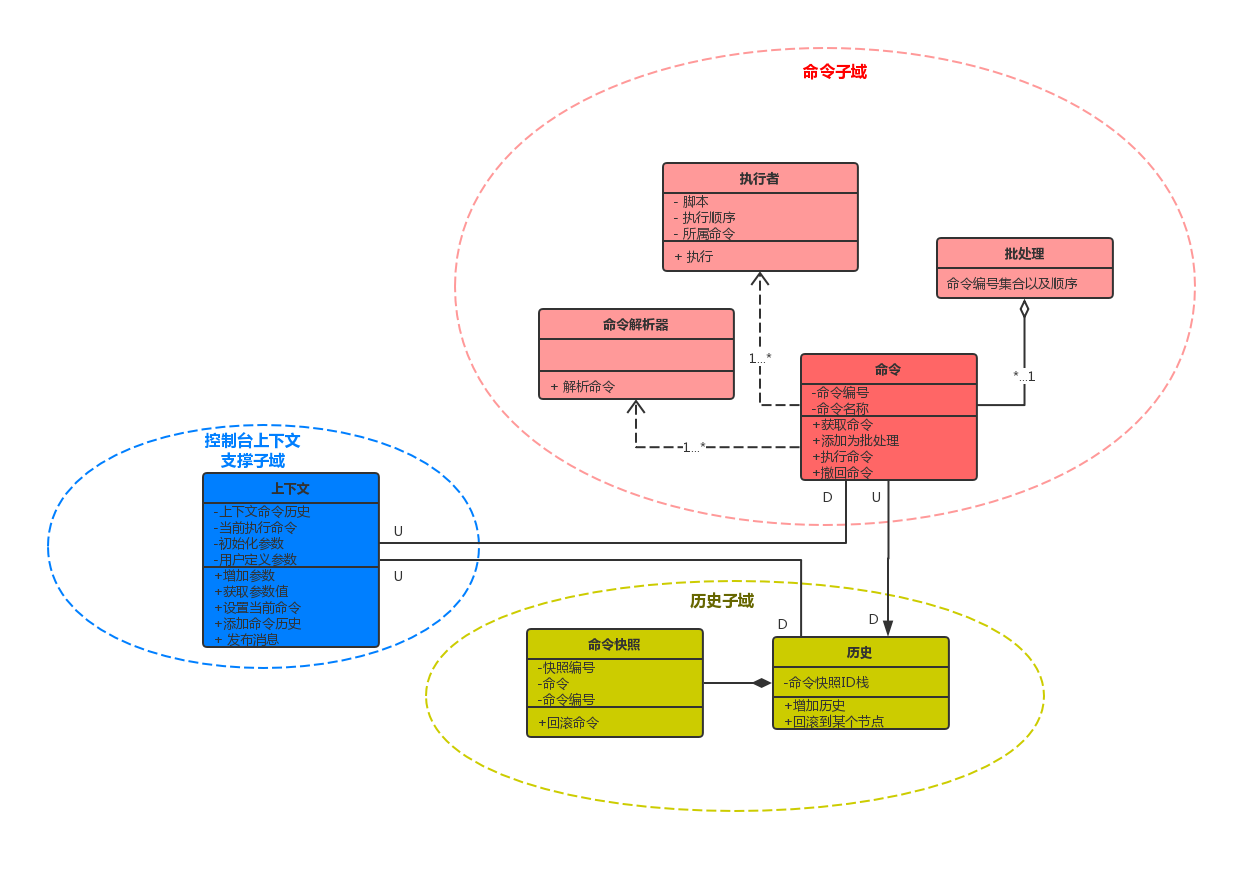
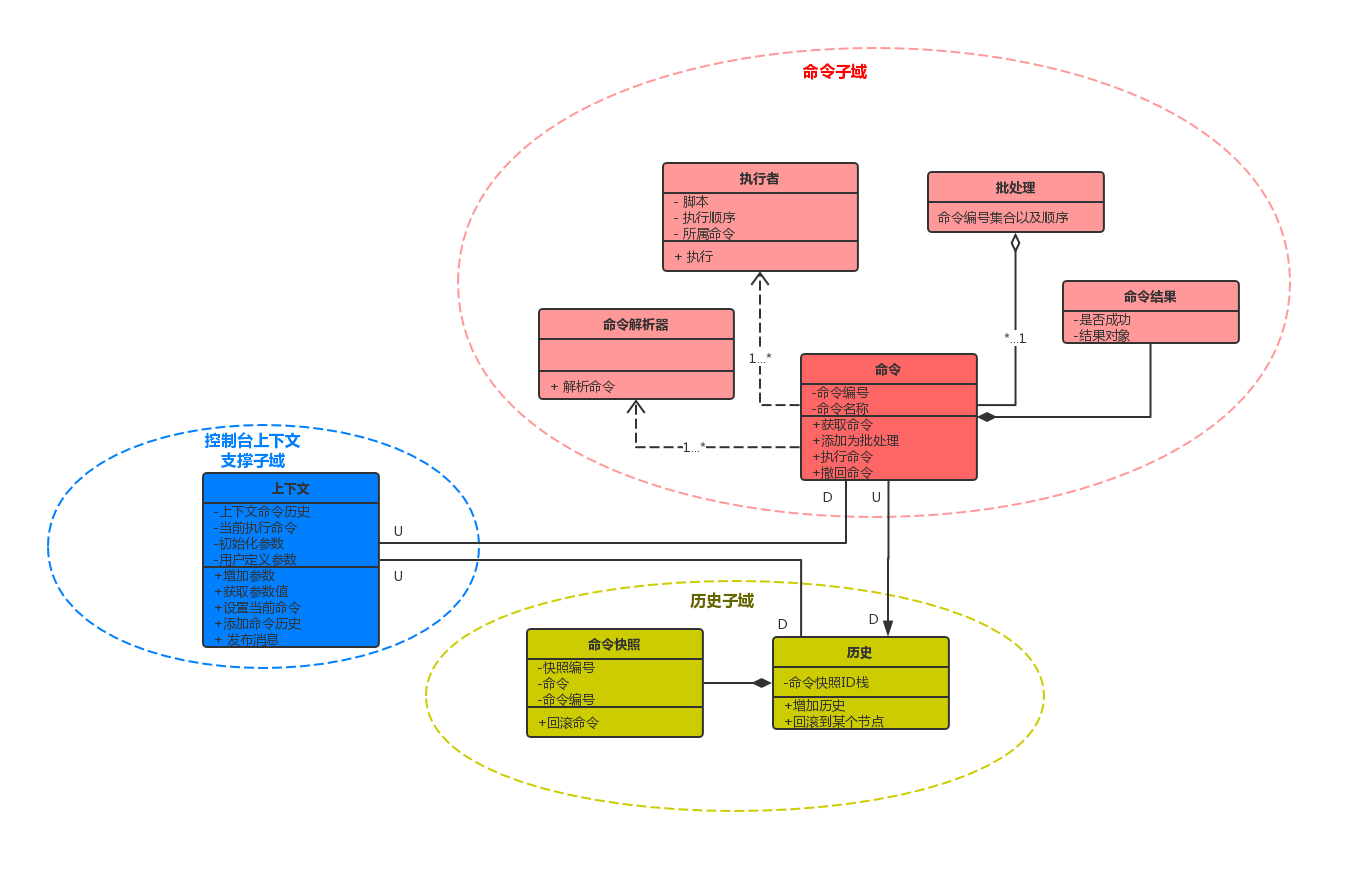
Add CommandResult value object

diff --git a/jmore-console/src/main/java/com/whatakitty/jmore/console/application/service/CommandService.java b/jmore-console/src/main/java/com/whatakitty/jmore/console/application/service/CommandService.java
@@ -1,14 +1,12 @@
 package com.whatakitty.jmore.console.application.service;
 
-import com.whatakitty.jmore.console.domain.command.BatchCommand;
-import com.whatakitty.jmore.console.domain.command.Command;
-import com.whatakitty.jmore.console.domain.command.CommandRepository;
-import com.whatakitty.jmore.console.domain.command.ICommand;
+import com.whatakitty.jmore.console.domain.command.*;
 import com.whatakitty.jmore.console.domain.context.ConsoleContext;
 import com.whatakitty.jmore.console.domain.history.History;
 import com.whatakitty.jmore.console.domain.history.HistoryRepository;
 import com.whatakitty.jmore.framework.ddd.publishedlanguage.AggregateId;
 import java.util.List;
+import java.util.Optional;
 import java.util.stream.Collectors;
 import lombok.RequiredArgsConstructor;
 import org.springframework.stereotype.Service;
@@ -35,7 +33,7 @@ public class CommandService {
      * @param context console context
      * @param cmd     command
      */
-    public void execute(ConsoleContext context, String cmd) {
+    public Optional<CommandResult> execute(ConsoleContext context, String cmd) {
         // get or create history
         context.bindHistory(() -> {
             History newOne = new History(context);
@@ -45,10 +43,10 @@ public class CommandService {
 
         // execute command
         try {
-            commandRepository.findById(new AggregateId<>(cmd))
-                .ifPresent(command -> {
+            return commandRepository.findById(new AggregateId<>(cmd))
+                .map(command -> {
                     context.setCurrentCommand(command);
-                    command.execute(context);
+                    return command.execute(context);
                 });
         } finally {
             context.removeCommand();

diff --git a/jmore-console-demo/src/main/java/com/whatakitty/jmore/console/demo/Application.java b/jmore-console-demo/src/main/java/com/whatakitty/jmore/console/demo/Application.java
@@ -2,9 +2,11 @@ package com.whatakitty.jmore.console.demo;
 
 import com.whatakitty.jmore.console.JMoreConsoleRunner;
 import com.whatakitty.jmore.console.application.service.CommandService;
+import com.whatakitty.jmore.console.domain.command.CommandResult;
 import com.whatakitty.jmore.console.domain.context.ConsoleContext;
 import com.whatakitty.jmore.console.infrastructure.stream.StreamMgr;
 import com.whatakitty.jmore.framework.bootstrap.JMoreApplication;
+import java.util.Optional;
 import javax.annotation.PreDestroy;
 import lombok.RequiredArgsConstructor;
 import lombok.extern.slf4j.Slf4j;
@@ -26,13 +28,15 @@ public class Application implements JMoreConsoleRunner {
 
     @Override
     public void run(ConsoleContext context) {
-        while (true) {
-            final String command = StreamMgr.getINSTANCE().reader().nextLine();
-            try {
-                commandService.execute(context, command);
-            } catch (UnsupportedOperationException e) {
-                log.error(e.getMessage());
+        final String command = StreamMgr.getINSTANCE().reader().nextLine();
+        try {
+            Optional<CommandResult> result = commandService.execute(context, command);
+            if (!result.isPresent() || !result.get().isSucc()) {
+                StreamMgr.getINSTANCE().println("Command execute failed");
             }
+            run(context);
+        } catch (UnsupportedOperationException e) {
+            log.error(e.getMessage());
         }
     }
 

diff --git a/jmore-console/src/main/java/com/whatakitty/jmore/console/domain/command/Command.java b/jmore-console/src/main/java/com/whatakitty/jmore/console/domain/command/Command.java
@@ -35,14 +35,16 @@ public abstract class Command extends AbstractAggregateRoot<String> implements I
     private final IReceiver receiver;
 
     @Override
-    public void execute(ConsoleContext context) {
+    public CommandResult execute(ConsoleContext context) {
         publishEvent(new CommandBeforeExecuteEvent(context));
         try {
             // invoke
             final Object result = execute(context, receiver);
             publishEvent(new CommandAfterExecuteEvent(context, result));
+            return CommandResult.of(true, result);
         } catch (Throwable e) {
             publishEvent(new CommandExecuteFailedEvent(context, e));
+            return CommandResult.of(false, null);
         } finally {
             publishEvent(new CommandFinishedEvent(context));
         }

diff --git a/jmore-console/src/main/java/com/whatakitty/jmore/console/domain/command/BatchCommand.java b/jmore-console/src/main/java/com/whatakitty/jmore/console/domain/command/BatchCommand.java
@@ -54,8 +54,11 @@ public class BatchCommand extends AbstractEntity implements ICommand {
     }
 
     @Override
-    public void execute(ConsoleContext context) {
-        commands.forEach(item -> item.execute(context));
+    public CommandResult execute(ConsoleContext context) {
+        List<CommandResult> results = commands.stream()
+            .map(item -> item.execute(context))
+            .collect(Collectors.toList());
+        return CommandResult.of(results.parallelStream().allMatch(CommandResult::isSucc), results);
     }
 
     @Override

diff --git a/jmore-console/src/main/java/com/whatakitty/jmore/console/domain/command/CommandResult.java b/jmore-console/src/main/java/com/whatakitty/jmore/console/domain/command/CommandResult.java
@@ -1,0 +1,21 @@
+package com.whatakitty.jmore.console.domain.command;
+
+import com.whatakitty.jmore.framework.ddd.domain.ValueObject;
+import lombok.EqualsAndHashCode;
+import lombok.Value;
+
+/**
+ * command result
+ *
+ * @author WhatAKitty
+ * @date 2019/05/05
+ * @description
+ **/
+@Value(staticConstructor = "of")
+@EqualsAndHashCode(callSuper = true)
+public final class CommandResult extends ValueObject {
+
+    private final boolean succ;
+    private final Object result;
+
+}

diff --git a/jmore-console/src/main/java/com/whatakitty/jmore/console/domain/command/ICommand.java b/jmore-console/src/main/java/com/whatakitty/jmore/console/domain/command/ICommand.java
@@ -22,7 +22,7 @@ public interface ICommand extends Ordered {
     /**
      * execute the command
      */
-    void execute(ConsoleContext context);
+    CommandResult execute(ConsoleContext context);
 
     /**
      * undo the command

diff --git a/jmore-console/README.md b/jmore-console/README.md
@@ -50,6 +50,7 @@ This will list all entity of [Command Sub Domain], [History Sub Domain] and [Con
 * Command
 * Receiver【Value Object】
 * BatchCommand
+* CommandResult【Value Object】
 * Domain Service——Command Parser【Transform the human language into the command and receiver】
 
 #### History Sub Domain
@@ -67,5 +68,4 @@ This will list all entity of [Command Sub Domain], [History Sub Domain] and [Con
 * One command has one receiver
 * BatchCommand is the collection of single command
 
-![Domain Model](https://static.xuqiang.me/public/images/Shell%E6%8E%A7%E5%88%B6%E5%8F%B0DDD%E8%AE%BE%E8%AE%A1-2.png)
-
+![Domain Model](https://static.xuqiang.me/public/images/Shell%E6%8E%A7%E5%88%B6%E5%8F%B0DDD%E8%AE%BE%E8%AE%A1-3.png)

diff --git a/jmore-console/README_zh.md b/jmore-console/README_zh.md
@@ -50,6 +50,7 @@
 * 命令
 * 执行者【值对象】
 * 批处理
+* 命令结果【值对象】
 * 领域服务——命令解析器【将语义化命令转化为具现化命令以及执行者】
 
 #### 历史子域
@@ -67,5 +68,4 @@
 * 一个命令有一个具体执行者
 * 批处理是一堆命令的集合
 
-![领域模型](https://static.xuqiang.me/public/images/Shell%E6%8E%A7%E5%88%B6%E5%8F%B0DDD%E8%AE%BE%E8%AE%A1-2.png)
-
+![领域模型](https://static.xuqiang.me/public/images/Shell%E6%8E%A7%E5%88%B6%E5%8F%B0DDD%E8%AE%BE%E8%AE%A1-3.png)
